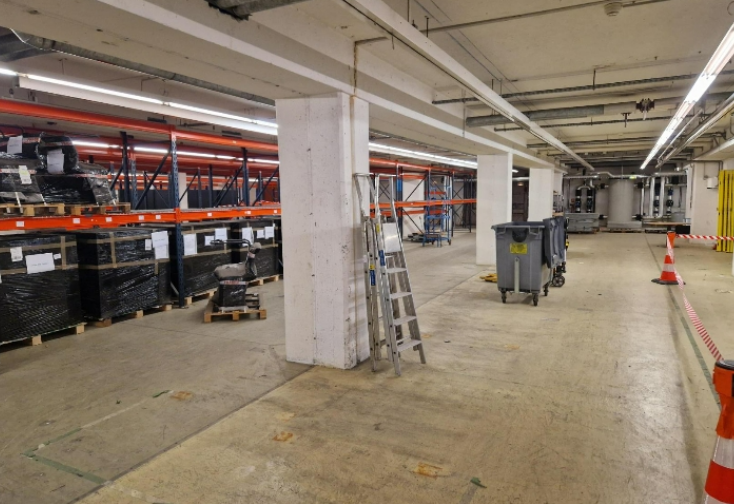
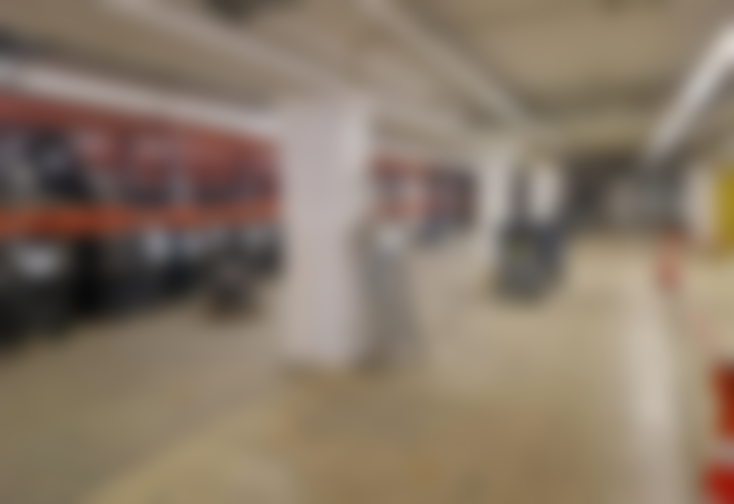
Mise à jour des styles pour la version mobile 2

diff --git a/style.css b/style.css
@@ -1223,9 +1223,7 @@ body.dark-mode .see-more-btn:hover {
 }
 
 
-
-
-/* ----------Realisations-------------*/
+/*----------Realisations-------------*/
 
 .infocardContainer * {
     font-family: 'Fira Sans Condensed', sans-serif;
@@ -1572,12 +1570,12 @@ body.dark-mode .hover-text {
 
 /*--------------Titre--------------*/
 
-@media (max-width: 770px) {
+@media (max-width: 768px) {
   .portfolio-title {
-    margin-top: 20px; 
-    margin-left: 100px; 
-    position: static; 
-    text-align: center; 
+    margin-top: 20px; /* Réduit l'espacement en haut */
+    margin-left: 0; /* Enlève le décalage à gauche */
+    position: static; /* Supprime le positionnement absolu */
+    text-align: center; /* Centre horizontalement le texte */
   }
 
   .portfolio-title h1 {
@@ -1593,12 +1591,39 @@ body.dark-mode .hover-text {
 }
 
 
+/*----------Bouton switch------------*/
+
+@media (max-width: 768px) {
+  .theme-switcher {
+    position: relative; /* Change la position absolue */
+    top: auto; /* Supprime le positionnement vertical */
+    margin: 20px auto; /* Ajoute un espacement et centre horizontalement */
+    display: flex;
+    justify-content: center;
+  }
+}
+
+
+/*--------------Logo BV-------*/
+
+@media (max-width: 768px) {
+  header nav .logo {
+    margin-left: 1px; /* Réduit la marge gauche pour le décaler */
+  }
+
+  .logo img {
+    width: 80px; /* Réduit légèrement la taille pour un rendu plus harmonieux si besoin */
+  }
+}
+
+
 /*--------------A propos-------------*/
 
-@media (max-width: 770px) {
+@media (max-width: 768px) {
   .about-section {
-    width: 75%; /* Élargir un peu le rectangle bleu */
-    margin-left: 130px; /* Centre horizontalement */
+    width: 85%; /* Élargir un peu le rectangle bleu */
+    margin-left: auto; /* Centre horizontalement */
+    margin-right: auto;
     margin-top: 20px; /* Rapproche le rectangle du titre */
     padding: 20px; /* Ajuste les marges internes */
   }
@@ -1643,7 +1668,223 @@ body.dark-mode .hover-text {
   }
 }
 
+@media (max-width: 768px) {
+  /* Supprimer la timeline et rectangle bleu */
+  .left-panel {
+    display: none; /* Cache le rectangle bleu */
+  }
+
+  .circle-container {
+    display: none; /* Cache les cercles de la timeline */
+  }
+
+  /* Barre de menu simplifiée */
+  header nav {
+    justify-content: space-between; /* Ajuste l'espacement des éléments */
+    padding: 10px 15px;
+  }
+
+  header nav ul {
+    display: none; /* Cache le menu horizontal */
+    flex-direction: column; /* Adapté si on veut le réactiver */
+    background: #b8d6f5;
+    position: absolute;
+    top: 100%;
+    left: 0;
+    width: 100%;
+    padding: 10px 0;
+    box-shadow: 0px 4px 6px rgba(0, 0, 0, 0.2);
+    z-index: 1000;
+  }
+
+  header nav ul li {
+    padding: 10px 20px;
+  }
+
+  header nav ul li a {
+    font-size: 16px;
+    color: #333;
+    text-align: left;
+  }
+
+  body.dark-mode header nav ul {
+    background: #ff6b7a; /* Remplace le bleu clair par un rouge adapté au dark mode */
+    box-shadow: 0px 4px 6px rgba(0, 0, 0, 0.5); /* Renforce l'ombre pour un effet plus prononcé */
+  }
+  
+  body.dark-mode header nav ul li a {
+    color: #ffffff; /* Le texte devient blanc pour le contraste */
+  }
+  
+  body.dark-mode header nav ul li a:hover {
+    background-color: rgb(250, 211, 211); /* Conserve l'effet hover mais en l'adaptant au rouge */
+    color: #1d1f20; /* Ajoute une couleur sombre pour le texte lors du hover */
+  }
+  
 
 
+/* ----------------- Version ordinateur ----------------- */
+@media (min-width: 769px) {
+  .burger-menu {
+    display: none; /* Cache le conteneur du menu burger */
+  }
+
+  .burger-menu span {
+    display: none; /* Cache les barres */
+  }
+
+  header nav ul {
+    display: flex; /* Affiche uniquement le menu classique */
+    flex-direction: row;
+    gap: 20px; /* Espacement entre les liens */
+  }
+
+  header nav ul.active {
+    display: none; /* Assure que l'état "actif" du menu burger ne force pas l'affichage */
+  }
+}
+
+/* ----------------- Version mobile ----------------- */
+@media (max-width: 768px) {
+  /* Cache le menu classique */
+  header nav ul {
+    display: none; /* Cache le menu classique par défaut */
+  }
+
+  /* Affiche le menu burger */
+  .burger-menu {
+    display: flex; /* Montre le conteneur burger */
+    flex-direction: column;
+    justify-content: center;
+    gap: 4px;
+    cursor: pointer;
+  }
+
+  .burger-menu span {
+    display: block; /* Affiche les barres */
+    width: 30px;
+    height: 3px;
+    background-color: #333; /* Couleur des barres */
+    transition: all 0.3s ease;
+  }
+
+  /* Animation du menu burger lorsqu'il est actif */
+  .burger-menu.active span:nth-child(1) {
+    transform: rotate(45deg) translateY(9px);
+  }
+
+  .burger-menu.active span:nth-child(2) {
+    opacity: 0; /* Cache la barre du milieu */
+  }
+
+  .burger-menu.active span:nth-child(3) {
+    transform: rotate(-45deg) translateY(-9px);
+  }
+
+  /* Afficher le menu déroulant */
+  header nav ul.active {
+    display: flex; /* Affiche les liens du menu burger */
+    flex-direction: column; /* Aligne les liens verticalement */
+    background: #b8d6f5; /* Couleur de fond du menu */
+    position: absolute;
+    top: 100%;
+    left: 0;
+    width: 100%;
+    padding: 10px 0;
+    z-index: 1000;
+  }
+
+  header nav ul li {
+    padding: 10px 15px; /* Ajoute de la marge pour les liens */
+    text-align: center; /* Centre les liens */
+  }
+
+  header nav ul li a {
+    text-decoration: none;
+    color: #333; /* Couleur des liens */
+    font-weight: bold;
+    transition: color 0.3s ease;
+  }
+
+  header nav ul li a:hover {
+    color: #007BFF; /* Couleur des liens au survol */
+  }
+}
 
 
+/*----------Formations-----------*/
+
+@media (max-width: 768px) {
+  .timeline {
+    width: 90%; /* Réduit la largeur pour s'adapter aux petits écrans */
+    margin: 20px auto; /* Centre la timeline */
+    display: flex;
+    flex-direction: column; /* Aligne les éléments verticalement */
+    gap: 30px; /* Ajoute un espacement entre les rectangles */
+  }
+
+  .timeline-content {
+    width: 100%; /* Les rectangles occupent toute la largeur disponible */
+    margin: 0 auto; /* Centre chaque rectangle */
+    padding: 15px; /* Ajuste les marges internes */
+  }
+
+  .timeline-middle {
+    display: none; /* Cache la ligne centrale pour la version mobile */
+  }
+
+  .timeline-circle {
+    position: relative;
+    top: -15px;
+    left: 50%;
+    width: 15px;
+    height: 15px;
+    border-radius: 50%;
+    background-image: linear-gradient(45deg, #007BFF, #971cd9, #2f1695);
+    transform: translateX(-50%);
+    z-index: 1;
+  }
+
+  body.dark-mode .timeline-circle {
+    background-image: linear-gradient(45deg, #dc1010, #960505, #f34a4a);
+  }
+}
+
+
+/*--------Experiences--------*/
+
+@media (max-width: 768px) {
+  .experience-container {
+    margin: 0 auto; /* Centre le conteneur */
+    flex-direction: column; /* Aligne les cartes verticalement */
+    gap: 40px; /* Ajoute un espacement uniforme entre les cartes */
+    margin-top: 50px; /* Réduit l'espacement supérieur */
+  }
+
+  .experience-card {
+    width: 85%; /* Les cartes occupent 90% de la largeur */
+    height: auto; /* Ajuste automatiquement la hauteur */
+    margin: 0 auto; /* Centre les cartes */
+  }
+
+  .experience-card-inner {
+    height: 280px; /* Ajuste la hauteur des cartes */
+  }
+
+  .experience-card-front, .experience-card-back {
+    border-radius: 10px; /* Conserve l'arrondi */
+  }
+
+  .experience-card-back {
+    padding: 15px; /* Réduit les marges internes */
+    text-align: center; /* Centre le texte */
+  }
+
+  .see-more-btn {
+    width: 100%; /* Le bouton occupe toute la largeur */
+    padding: 10px 15px; /* Ajuste les marges internes du bouton */
+    font-size: 14px; /* Réduit la taille de la police */
+  }
+}
+
+}

diff --git a/index.html b/index.html
@@ -62,6 +62,18 @@
                 <span class="slider"></span>
             </label>
         </div>
+
+        <div class="burger-menu">
+            <span></span>
+            <span></span>
+            <span></span>
+        </div>
+          <ul>
+            <li><a>Accueil</a></li>
+            <li><a>Formations</a></li>
+            <li><a>Expériences</a></li>
+            <li><a>Réalisations</a></li>
+          </ul>
     </nav>
 </header>
    
@@ -151,14 +163,16 @@
                 <img src="public/logo esaip.png" alt="Image 1" class="timeline-image">
             </a>
             <h3>École d'ingénieurs - ESAIP (2024-Présent)</h3>
-            <p>Actuellement, je suis en école d'ingénieur à l'ESAIP, où je me spécialise dans les méthodes industrielles et la gestion des risques HSE.</p>
+            <p>Actuellement, je suis en école d'ingénieur à l'ESAIP, où je me spécialise dans les méthodes industrielles 
+                et la gestion des risques HSE.</p>
         </div>
         <div class="timeline-component timeline-content">
             <a href="https://iutnantes.univ-nantes.fr/formations/bachelor-iut-bac3/but-gmp" target="_blank">
                 <img src="public/logo iut.png" alt="Image 2" class="timeline-image">
             </a>
             <h3>BUT GMP - IUT La Fleuriaye (2021-2024)</h3>
-            <p>J'ai poursuivi mes études en BUT GMP, en spécialité Conception et Production Durable et Citoyenne.</p>
+            <p>J'ai poursuivi mes études en BUT Génie Mécanique et Productique, en spécialité Conception et Production 
+                Durable et Citoyenne.</p>
         </div>
         <div class="timeline-middle">
             <div class="timeline-circle"></div>
@@ -251,7 +265,7 @@
                 
     <div class="infocardContainer">
         <div id="main">
-            <img src="public/projet ecole 2.png" alt="Projets d'entreprise">
+            <img src="public/travail.png" alt="Projets d'entreprise">
         </div>
         <div id="textbois">
             <h2>Travail</h2>

diff --git a/magasin.html b/magasin.html
@@ -89,9 +89,12 @@
             </p>
             <p> 
                 Je suis donc chargé de la conception de ce magasin et j'ai eu l'idée de mettre en place un système d'entrées et 
-                de sorties afin d'avoir un suivi des pièces et des commandes. Celui-ci se fera avec l'application Soltiscan et 
-                le logiciel Microsoft Excel.
+                de sorties afin d'avoir un suivi des pièces et des commandes. 
             </p>
+            <p>
+                Le bâtiment étant la propriété de Thales, les photos ci-contre ont été <u>volontairement floutées</u> afin de respecter 
+                les exigences de confidentialité et de secret défense.
+            </p>            
         </div>
         
         <div class="image-container">
